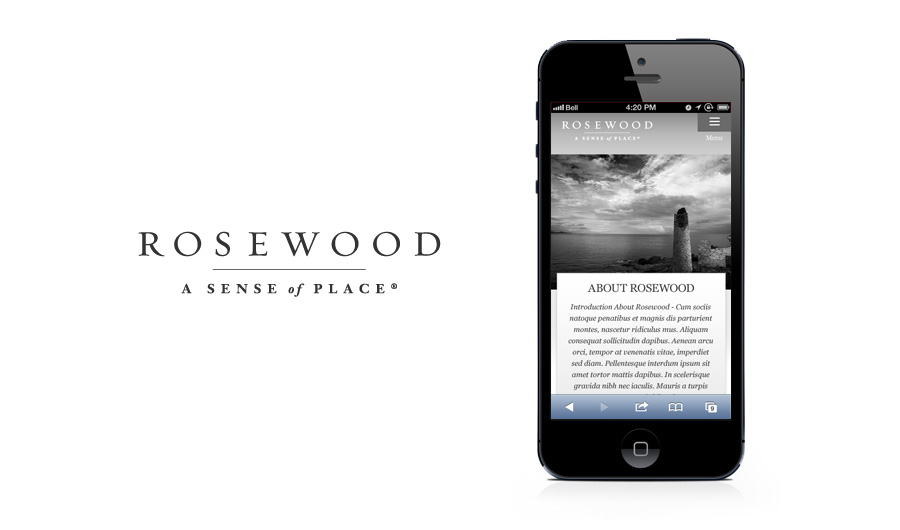
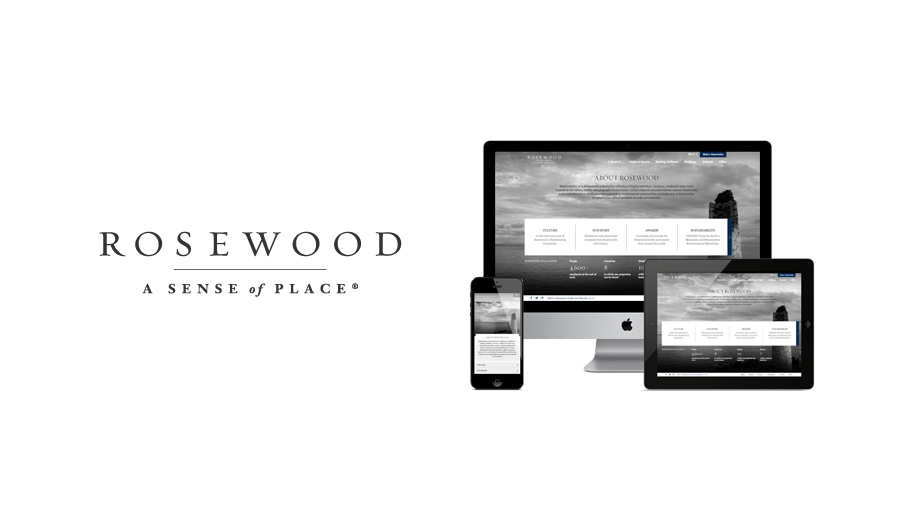
wip
adding rosewood project

Changed region(s): [[0.4978, 0.0604, 0.9022, 0.9358], [0.0933, 0.4226, 0.4978, 0.483], [0.1867, 0.5132, 0.4356, 0.5736]]

diff --git a/index.html b/index.html
@@ -20,17 +20,18 @@
 </head>
 
 <body>
-<div id="wrapper_header">
-	<div id="header">
-	<h1>Ruth Tsang </h1>
-    <h2>Currently designer at <a href="http://edore.org">Edore</a>, motivating people to learn. </br>
+		<div id="wrapper_header">
+        	<div id="header">
+				<h1>Ruth Tsang </h1>
+    			<h2>Currently designer at <a href="http://edore.org">Edore</a>, motivating people to learn. </br>
 Previously at <a href="http://www.isobar.hk">Isobar</a> and <a href="http://www.mica.edu">Maryland Institute College of Art.</a></h2>
-	</div>
-</div>
+			</div>
+		</div>
+
 <div id="wrapper_content">
 	<div id="container">
     	<div class="module">
-    	<div class ="title">Edore
+    	<div class ="title">Edore.org <span class="category">UI/UX</span>
         </div>
     	<div class="intro">Edore is a community to showcase and discover creative exercises for better learning.
     	</div>
@@ -45,8 +46,9 @@ Previously at <a href="http://www.isobar.hk">Isobar</a> and <a href="http://www.
                     <ul>
              
                         <li>
-                            <a href="#">View Project →</a>
+                            <a href="#">View Project &#8595</a>
                             <div class="st-content">
+                      
                                 abc In today's tutorial we'll be creating a simple responsive accordion that, when opened, will slide to the top of the viewport and reveal the content by fading it in. The idea is to avoid that the user has to scroll the content area into place. We'll also add some nice CSS3 transitions for the arrow to appear and to rotate when we click on an item. The accordion will be flexible, meaning that it will have a liquid width adjusting to the screen size.
                                 <img src="images/edore_main.jpg" width="900" height="530"/>
                             </div>
@@ -58,9 +60,9 @@ Previously at <a href="http://www.isobar.hk">Isobar</a> and <a href="http://www.
         
         
         <div class="module">
-    	<div class ="title">Rosewood Hotel Group
+    	<div class ="title">Rosewood Hotels &#38 Resorts<span class="category">responsive design</span>
         </div>
-    	<div class="intro">Edore is a community to showcase and discover creative exercises for better learning.
+    	<div class="intro">Rosewood Hotels &#38 Resorts wanted to relaunch their brand and Isobar Hong Kong were asked to redesign their website. Working closely with the User Experience lead and Art director, I was responsible for the responsive design (mainly mobile and tablet version) of the site. 
     	</div>
         <div class="mainimg">
         <img src="images/rosewood_main.jpg" width="900" height="530"/>
@@ -72,16 +74,54 @@ Previously at <a href="http://www.isobar.hk">Isobar</a> and <a href="http://www.
                     <ul>
              
                         <li>
-                            <a href="#">View Project →</a>
+                            <a href="#">View Project &#8595</a>
                             <div class="st-content">
-                                abc In today's tutorial we'll be creating a simple responsive accordion that, when opened, will slide to the top of the viewport and reveal the content by fading it in. The idea is to avoid that the user has to scroll the content area into place. We'll also add some nice CSS3 transitions for the arrow to appear and to rotate when we click on an item. The accordion will be flexible, meaning that it will have a liquid width adjusting to the screen size.
-                                <img src="images/edore_main.jpg" width="900" height="530"/>
+                                <div class="feature">Navigation is key</div>
+                                <div class="text_left">
+                                Horizontal menu and sub-menu on hover are used on the desktop site to give the user more possibilities to interact and gain from the site. In order to keep the mobile/tablet navigation as simple as possible, the popular swing-style navigation (hamburger menu icon) is used.</div>
+                                <img src="images/rosewood_proj1.jpg" width="900"/>
+                                <div class="feature">Everything is flexible yet consistent</div>
+                                <div class="text_left">
+                                A flexible grid will provide a consistent experience regardless of the device. In this case we established 3 breakpoints - 1024px, 768px and 320px. Images and content may be hidden or subtracted to create a better experience for smaller devices. We cut out the summaries of each sections not only to save space but allows users focus on the section titles.
+                                </div> 
+                                <img src="images/rosewood_proj2.jpg" width="900"/>
+                                <div class="feature">Simpler is better</div>
+                                <div class="text_left">
+                                Images of the selected hotels are used on the desktop site to create a more elegant and engaging experience. However saving space becomes more crucial when it comes to smaller screens. Accordion menu is used to allow space saving for a listing of hotels. We try our best to keep interaction in its simplest form and allow mobile users to focus on the content. 
+                                </div>
+                                <img src="images/rosewood_proj3.jpg" width="900"/>
                             </div>
                         </li>
                     
                     </ul>
                 </div>
+                
+             
+                
+        <div id="about">
+        	<div class="title">About</div>
+        		<div id="about_me">Hello. I was born and raised in Hong Kong. After graduating from Maryland Institute College of Art, I spent 2 years working in advertising world designing websites and campaigns. Now I design Edore.
+        <br/><br/>
+        &#169 Ruth Tsang 2013 | rtsangdesign@gmail.com
+        		</div>
+        	</div>
+            <div id="about_right">
+                <ul id="icon_wrapper">
+                    <li class="behance"><a href="http://be.net/ruthtsang"></a></li>
+                    <li class="dribbble"><a href="http://www.dribbble.com/ruthtsang"></a></li>
+                    <li class="facebook"><a href="http://facebook.com/ruthtsanghy"></a></li>
+                    <li class="googleplus"><a href="https://plus.google.com/104496606852944228662"></a></li>
+                    <li class="linkedin"><a href="http://www.linkedin.com/in/ruthtsanghy"></a></li>
+                    <li class="pinterest"><a href="http://pinterest.com/ruthtsang"></a></li>
+                    <li class="tumblr"><a href="http://ruthtsang.tumblr.com"></a></li>
+                    <li class="twitter"><a href="http://twitter.com/ruthtsanghy"></a></li>
+                </ul>
+            </div>
         </div>
+        
+        </div>
+        </div>
+        
         
         
         <script type="text/javascript" src="http://ajax.googleapis.com/ajax/libs/jquery/1.6.4/jquery.min.js"></script>

diff --git a/css/style.css b/css/style.css
@@ -9,7 +9,7 @@ body{
 }
 #wrapper_content {
 	background-color:#f5f5f5;
-	padding-bottom:50px;
+	padding-bottom:30px;
 	
 
 }
@@ -48,18 +48,43 @@ a:hover{
   	color: #1a727f; 
 }
 .title{
-	font-size:26px;
+	font-size:24px;
 	color:#313131;
 	margin-bottom:10px;
 	padding-top:40px;
+	
 }
 .intro{
 	font-size:14px;
 	color:#555555;
-	width:450px;
-	margin-bottom:30px;
+	width:900px;
+	margin-bottom:20px;
 	line-height:1.2em;
+	clear:both;
 }
+.text{
+	font-size:14px;
+	color:#313131;
+	}
+.text_left{
+	font-size:14px;
+	color:#313131;
+	width:550px;
+	line-height:18px;
+	}
+.category{
+	font-size:13px;
+	font-style:italic;
+	text-transform:uppercase;
+	margin-left:10px;
+	color:#666666;
+	}
+.feature{
+	font-size:16px;
+	font-weight:600;
+	margin-bottom:10px;
+	margin-top:20px;
+	}
 .mainimg{
 	margin-bottom:20px;
 }
@@ -131,9 +156,107 @@ hr{
 	margin-bottom:20px;
 	margin-top:20px;
 }
-}
 @media screen and (max-width: 320px){
 	.st-accordion ul li > a{
 		font-size:36px;
 	}
+}
+
+#about{
+	width:440px;
+	float:left;
+	}
+#about_me{
+	font-size:14px;
+	color:#2292a2;
+	margin-bottom:30px;
+	line-height:1.2em;
+}
+#about_right{
+	width:430px;
+	position:relative;
+	margin-left:30px;
+	float:left;
+	margin-top:60px;
+}
+
+/*social media acc */
+#icon_wrapper{
+	position:relative;
+}
+#icon_wrapper li{
+	margin:0;
+	padding:0;
+	list-style:none;
+	position:absolute;
+	top:0;
+}
+#icon_wrapper li, #icon_wrapper a{
+	height:43px;
+	display:block;
+}
+
+.behance{
+	left:0px;
+	width:44px;
+	background:url(../images/icon_sprite.png) 0 0;
+}
+.behance a:hover{
+	background:url(../images/icon_sprite.png) -44px 0;
+}
+.dribbble{
+	left:54px;
+	width:44px;
+	background:url(../images/icon_sprite.png) 0 -43px;
+}
+.dribbble a:hover{
+	background:url(../images/icon_sprite.png) -44px -43px;
+}
+.facebook{
+	left:108px;
+	width:44px;
+	background:url(../images/icon_sprite.png) 0 -86px;
+}
+.facebook a:hover{
+	background:url(../images/icon_sprite.png) -44px -86px;
+}
+.googleplus{
+	left:162px;
+	width:44px;
+	background:url(../images/icon_sprite.png) 0 -129px;
+}
+.googleplus a:hover{
+	background:url(../images/icon_sprite.png) -44px -129px;
+}
+.linkedin{
+	left:216px;
+	width:44px;
+	background:url(../images/icon_sprite.png) 0 -172px;
+}
+.linkedin a:hover{
+	background:url(../images/icon_sprite.png) -44px -172px;
+}
+.pinterest{
+	left:270px;
+	width:44px;
+	background:url(../images/icon_sprite.png) 0 -215px;
+}
+.pinterest a:hover{
+	background:url(../images/icon_sprite.png) -44px -215px;
+}
+.tumblr{
+	left:324px;
+	width:44px;
+	background:url(../images/icon_sprite.png) 0 -258px;
+}
+.tumblr a:hover{
+	background:url(../images/icon_sprite.png) -44px -258px;
+}
+.twitter{
+	left:378px;
+	width:44px;
+	background:url(../images/icon_sprite.png) 0 -301px;
+}
+.twitter a:hover{
+	background:url(../images/icon_sprite.png) -44px -301px;
 }
